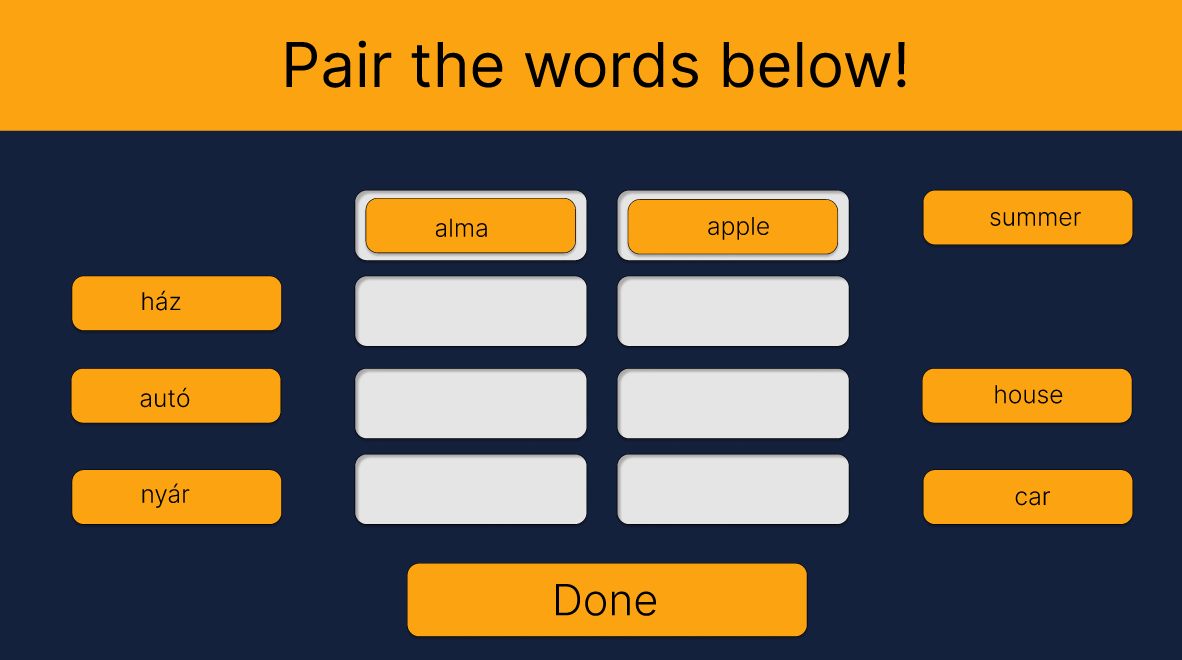
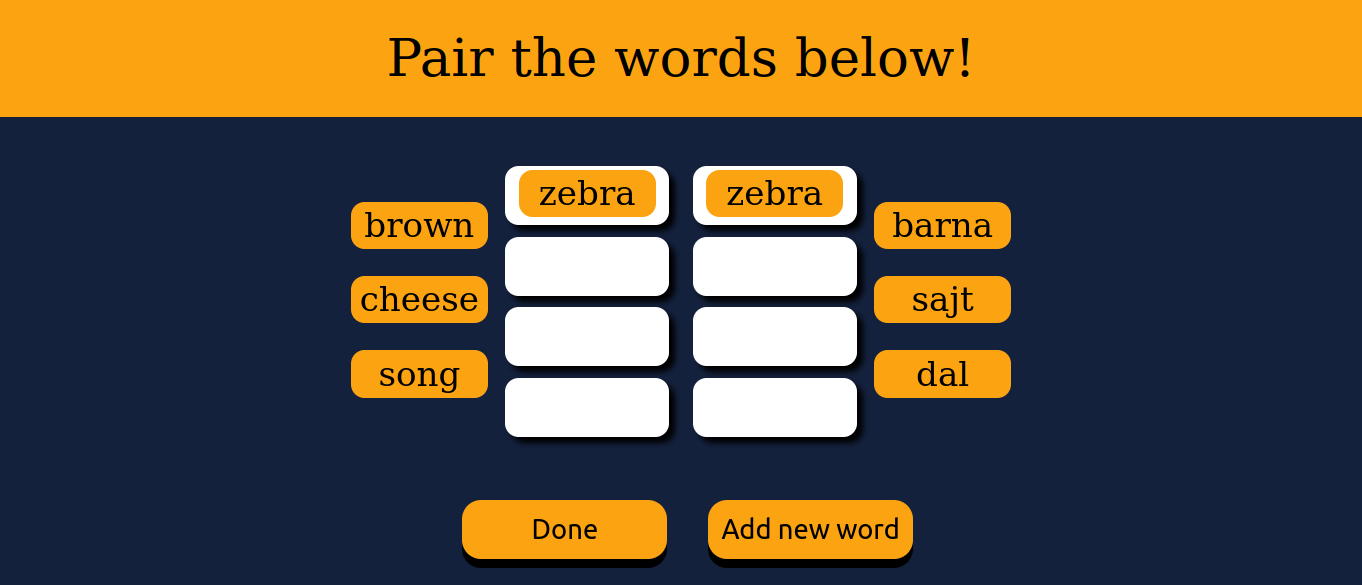
Képernyőtervek frissítve

diff --git a/doc/funkspec.md b/doc/funkspec.md
@@ -85,8 +85,9 @@
 * Úgy nézne ki az alkalmazás, hogy a képernyő bal és jobb oldalára is le lenne rakva négy-négy csempe.
  A bal oldalra kell behúzgálni az angol szavakat, jobb oldalra pedig a magyar szavakat. Ha a felhasználó, vagy a vendég jól párosítja a szavakat, akkor egy felugróablak fogadja majd, ami sikerességet fog mutatni,
  avagy pont az ellentétét vagyis hogy rossz volt a szavak párosítása.
-* Az alkalmazás fő oldala: ![Fő oldal](./resource/mainPage.png)
-* Az alkalmazás egy párosítás után: ![Párosított](./resource/pairedPage.png)
+* Az alkalmazás fő oldala: ![Fő oldal](./resources/mainPage.png)
+* Az alkalmazás egy párosítás után: ![Párosított](./resource/../resources/pairedPage.png)
+* * Az alkalmazás szó hozzáadó oldala: ![Szó hozzáadása oldal](./resources/newWordPage.png)
 ---
 ## 11. Forgatókönyvek
 * Futási időben egy szereplő figyelhető meg. Az alkalmazást elindítva megjelenik egy üres kezelőfelület, ezután
